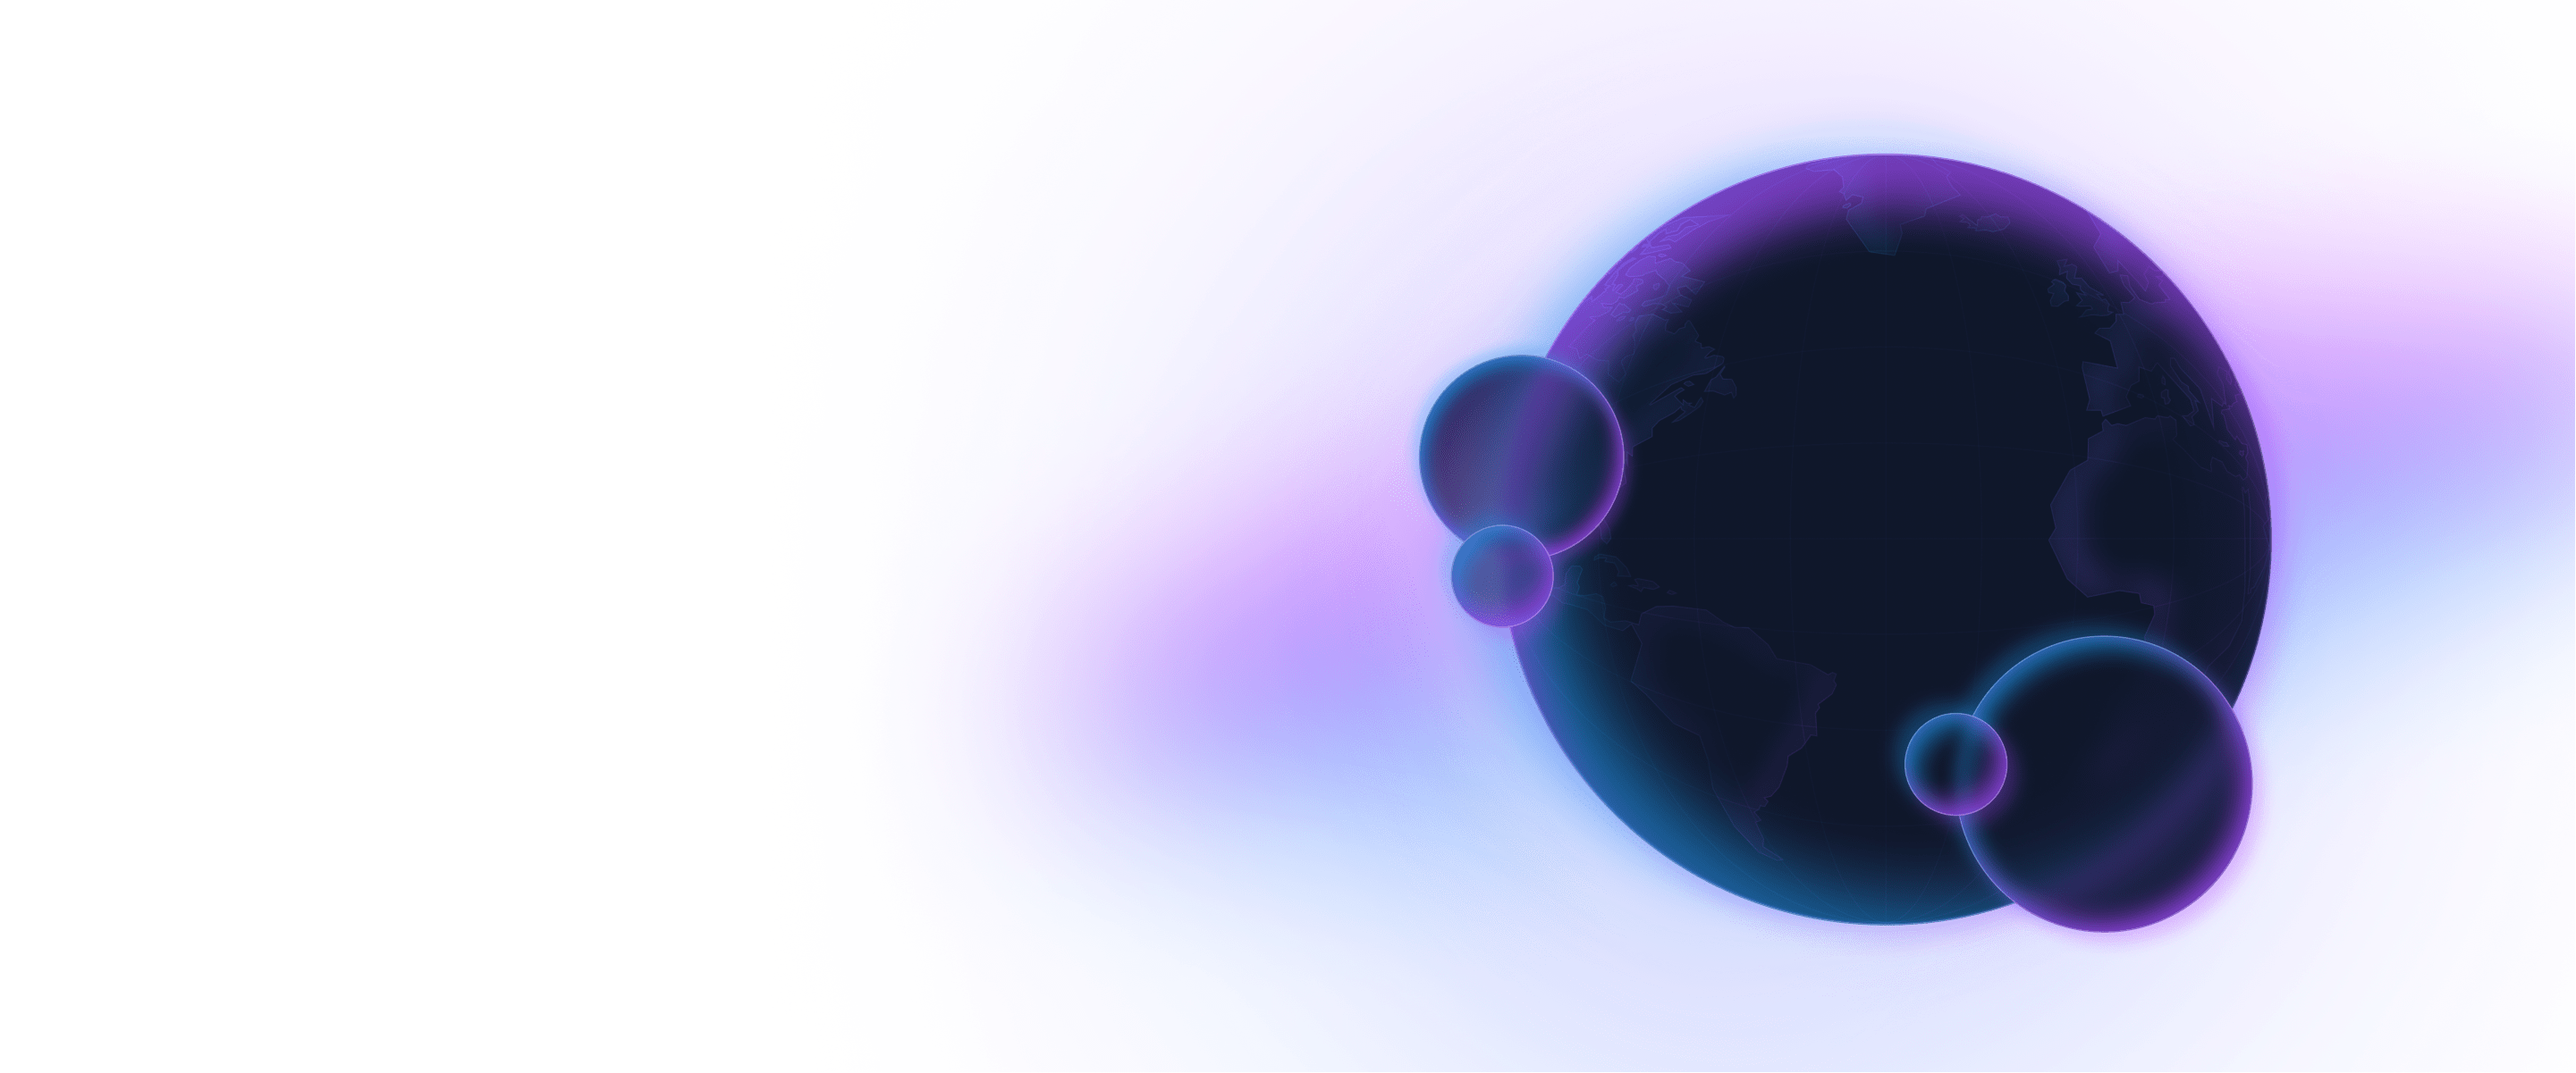
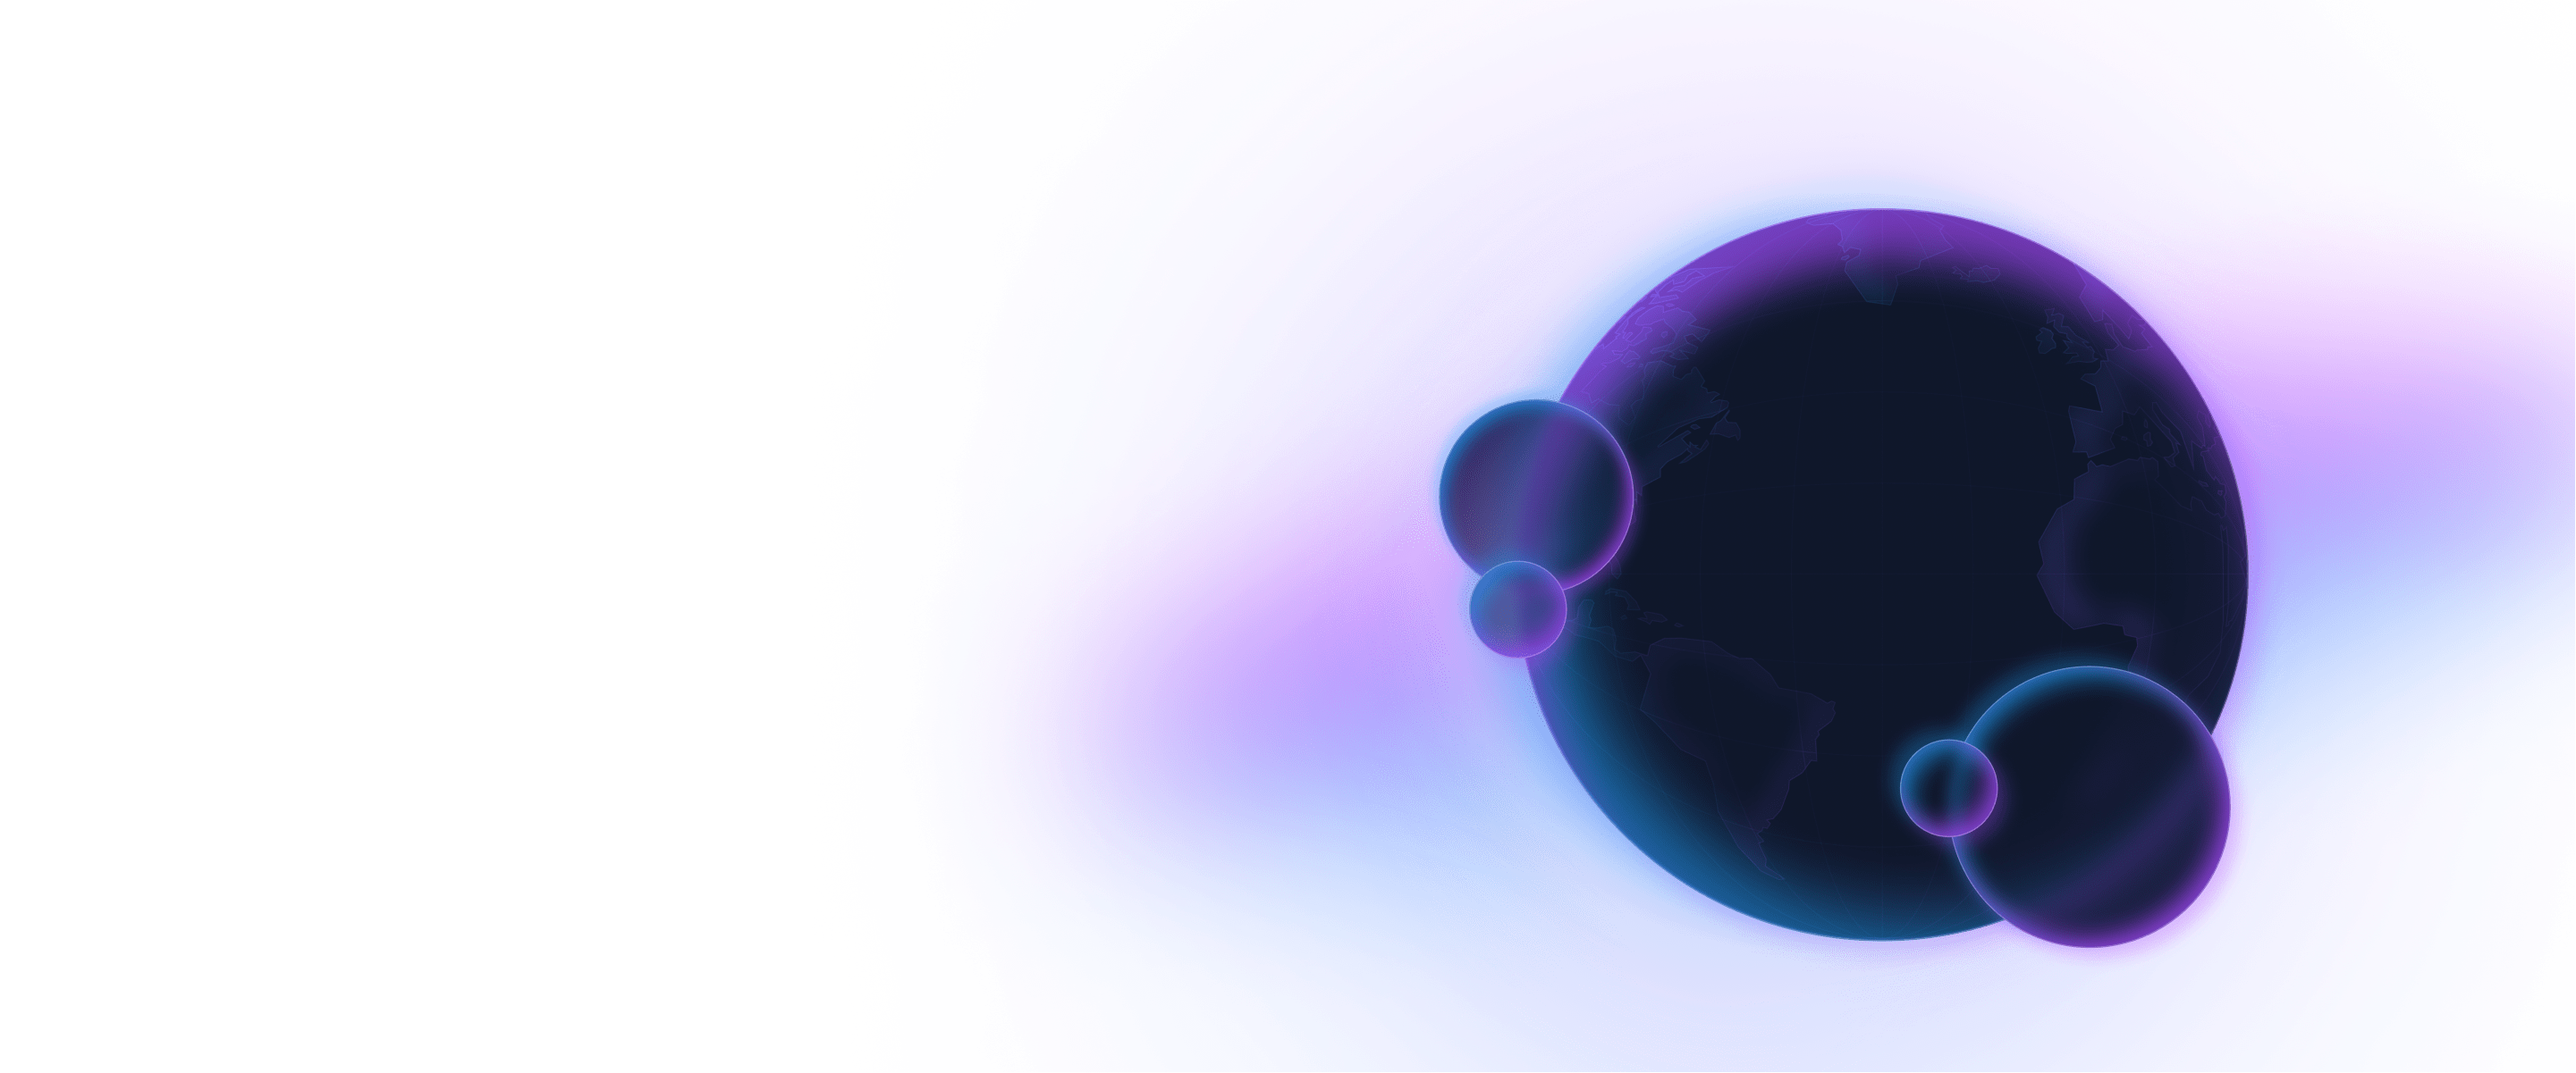
added hero links and new bg-image

Changed region(s): [[0.4998, 0.1232, 0.9059, 0.8934], [0.9372, 0.2773, 0.9997, 0.3389], [0.5935, 0.7086, 0.6248, 0.7394]]

diff --git a/src/includes/hero-home.html b/src/includes/hero-home.html
@@ -1,10 +1,11 @@
 <div class="bg-gradient-to-b from-[#000] to-gray-900  "
 >
 <div 
-class="bg-cover bg-no-repeat bg-center relative py-48 lg:py-48 2xl:py-64"
+class="bg-cover bg-no-repeat bg-center relative py-48 lg:py-48 2xl:pt-80 2xl:pb-64"
 style="background-image: url(./static/images/hero-bg-new.png)">
-        
-    <div class="h-16 bg-gradient-to-b from-transparent to-gray-900 absolute bottom-0 left-0 right-0 z-10"></div>
+
+
+<div class="h-16 bg-gradient-to-b from-transparent to-gray-900 absolute bottom-0 left-0 right-0 z-10"></div>
 
     <div class="container flex flex-col lg:flex-row items-center justify-between relative z-20">
         <div class="text-center lg:text-left lg:w-1/2">
@@ -15,8 +16,8 @@ style="background-image: url(./static/images/hero-bg-new.png)">
                 Camino is the travel industry blockchain. Fueled by the Camino token, it is offering a versatile network to expand current business models and to create new touristic products to delight travelers and business partners.
             </p>
             <div class="flex items-center justify-center lg:justify-start mt-8">
-                <a href="#" class="button mr-2">Primary</a>
-                <a href="#" class="button-secondary">Secondary</a>
+                <a href="/ecosystem" class="button mr-2">Learn more</a>
+                <a href="/community" class="button-secondary">Join the community</a>
             </div>
         </div>
     </div>

diff --git a/src/includes/section_litepaper.html b/src/includes/section_litepaper.html
@@ -6,7 +6,7 @@
 {% set textImageButtonLabel =   "Download litepaper" %}
 {% set textImageButtonLink =    "/static/Chain4Travel_Litepaper_June.pdf" %}
 
-<section x-data="{ CaminoVideoModal: false }">
+<section x-data="{ CaminoVideoModal: false }" class="md:pt-0">
     <div class="container items-center grid grid-cols-12">
 
         {% if textImageImagePosition == 'left' %}

diff --git a/src/ecosystem.html b/src/ecosystem.html
@@ -5,7 +5,7 @@ layout:         default
 ---
 
 <!-- Hero Start -->
-    {% set heroTitle = "Discover the world of Camino - Join the community of travel thought leaders" %}
+    {% set heroTitle = "Discover the world of Camino" %}
     {% set heroSubtitle = "" %}
     {% set heroText = "" %}
     {% set heroBgImage = "bubbles" %}
